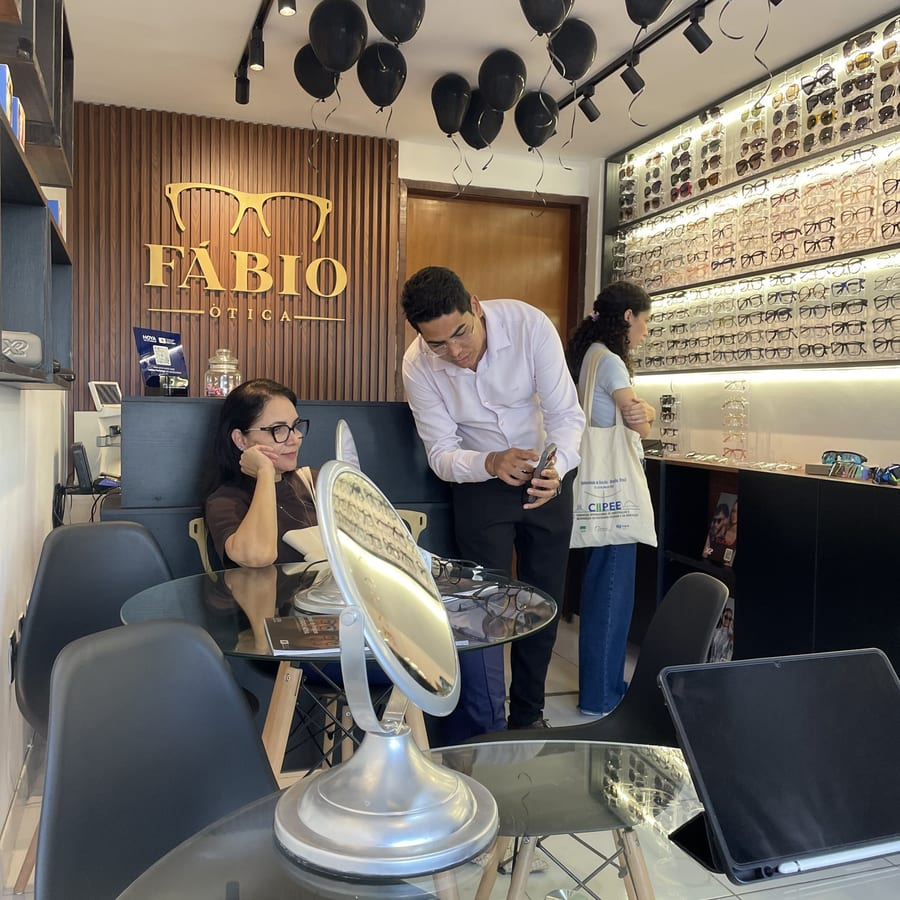
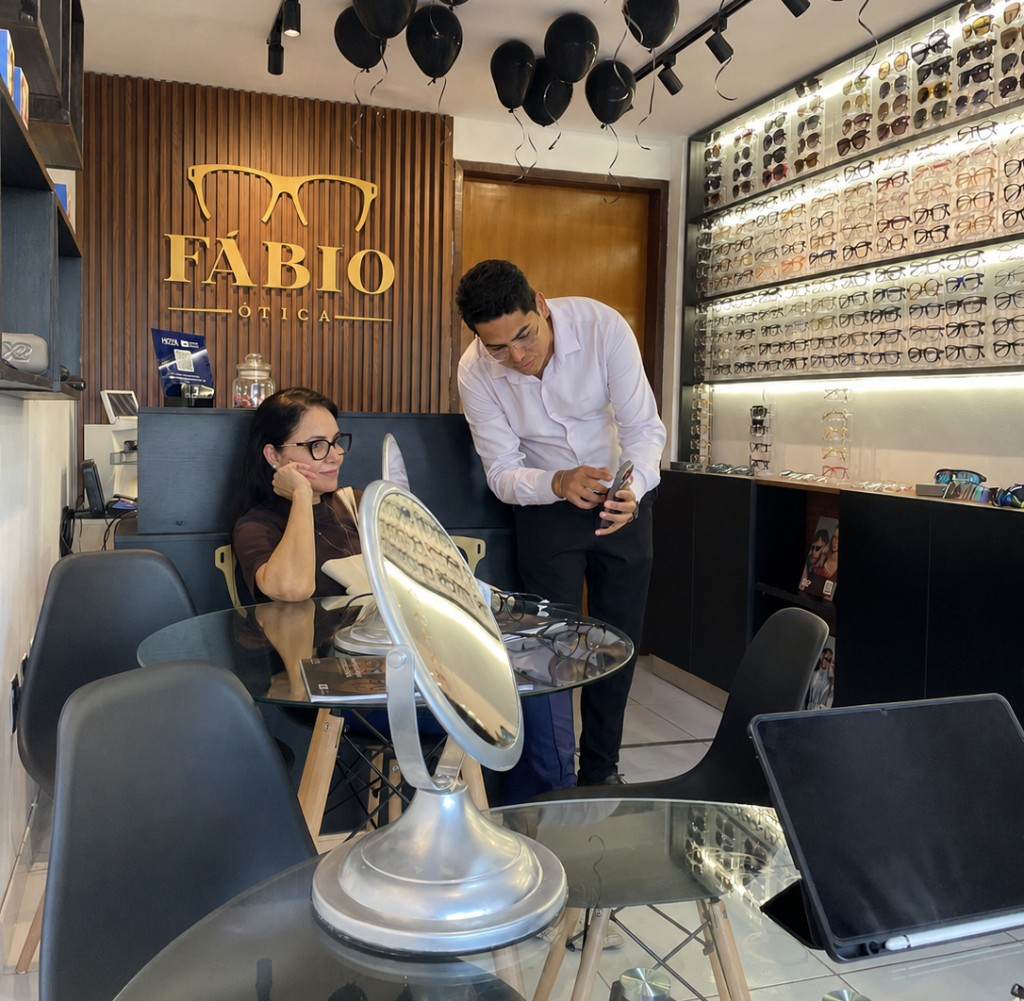
Atualizar foto da seção Sobre com imagem editada da loja.
Substitui o visual anterior pelo atendimento real redimensionado enviado para a segunda seção.

diff --git a/lib/site-images.ts b/lib/site-images.ts
@@ -9,7 +9,7 @@ export type FeaturedItem = SiteImage & {
 
 export const aboutImage: SiteImage = {
   src: "/images/real/about/atendimento.jpg",
-  alt: "Cliente em atendimento personalizado na Fábio Ótica",
+  alt: "Atendimento na Fábio Ótica: cliente sentada à mesa de consulta e profissional ao lado, com expositores de armações ao fundo",
 };
 
 export const serviceVisitImage: SiteImage = {
